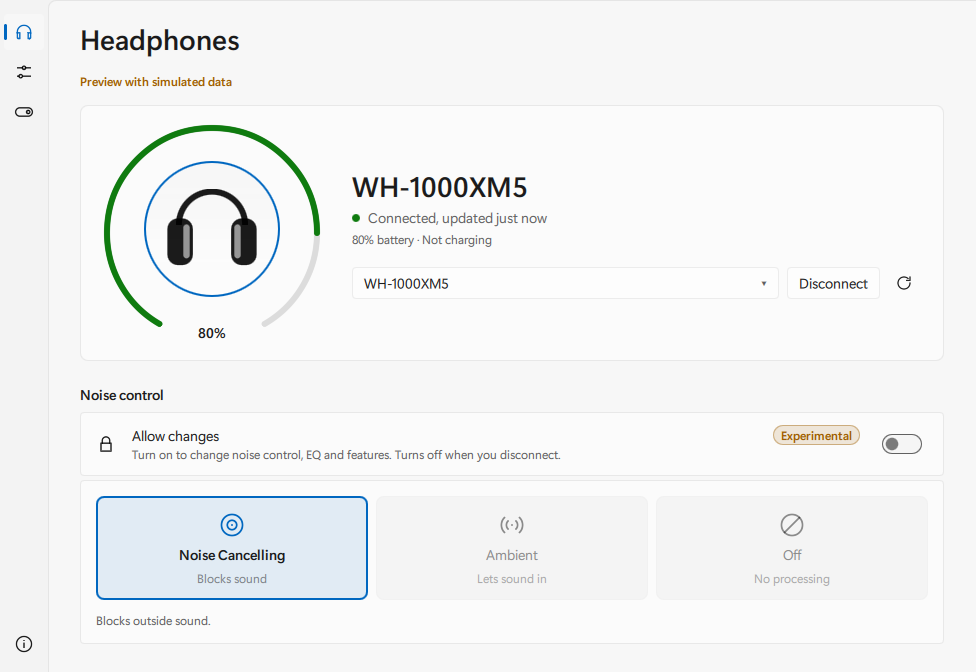
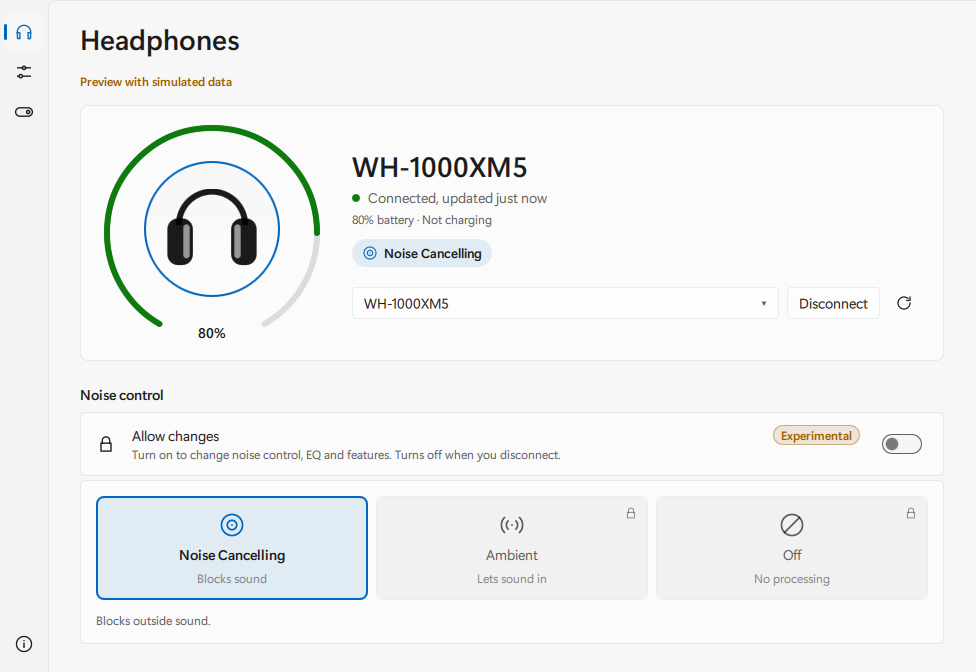
README: 0.6.0 screenshots from the release build, including the headphone-button toast

diff --git a/README.md b/README.md
@@ -27,6 +27,9 @@ Sony keeps the controls for its headphones in a phone app. **Headset Desk** brin
   <img src="docs/screenshots/sound-dark-100.png" alt="Sound page with a five-band equalizer curve" width="49%">
   <img src="docs/screenshots/features-light-100.png" alt="Features page with Speak-to-Chat and DSEE switches" width="49%">
 </p>
+<p align="center">
+  <img src="docs/screenshots/button-dark-100.png" alt="A toast reading Ambient, changed on your headphones, after pressing the headset's button" width="49%">
+</p>
 <p align="center"><sub>Screenshots from the release build, using simulated data.</sub></p>
 
 ## What it does
